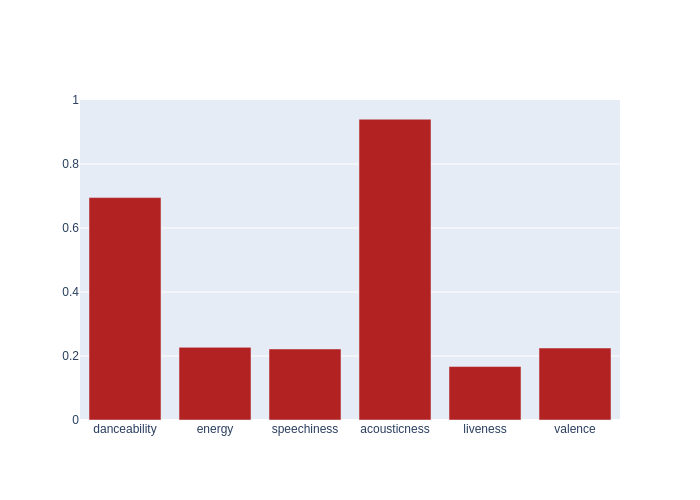
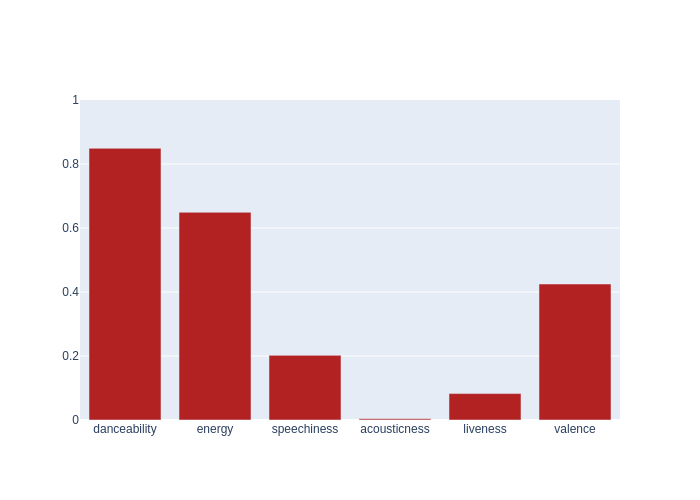
Automated README update

diff --git a/README.md b/README.md
@@ -4,10 +4,10 @@ Automated music metrics for fun, updated hourly.
 
 ## Spotify
 
-- currently listening to **O. Cas - Arte Caso**
+- currently listening to **tyDi - Count on You - Club Mix**
 
 - **878** liked songs
-- **140** playlists
+- **141** playlists
 
 - top artists: 
 
